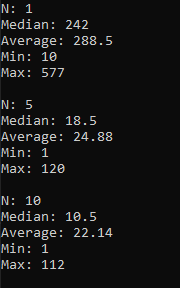
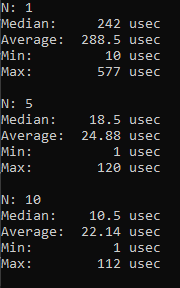
make prettier output

diff --git a/Task7.cpp b/Task7.cpp
@@ -3,6 +3,7 @@
 #include <iostream>
 #include <numeric>
 #include <fstream>
+#include <iomanip>
 #include <vector>
 #include <assert.h>
 #include <set>
@@ -95,11 +96,12 @@ void PrintLatencyStats(vector<int> latencies, int MAX_WORKLOAD) {
 	float average = accumulate(all(latencies), 0.0) / size;
 	float median = (size & 1) ? latencies[size / 2] : ((float)latencies[size / 2 - 1] + latencies[size / 2]) / 2.0;
 
+	int sw = 5;
 	cout << "N: " << MAX_WORKLOAD << "\n"
-		<< "Median: " << median << "\n"
-		<< "Average: " << average << "\n"
-		<< "Min: " << latencies.front() << "\n"
-		<< "Max: " << latencies.back() << "\n\n";
+		<< "Median:   " << setw(sw) << median << " usec\n"
+		<< "Average:  " << setw(sw) << average << " usec\n"
+		<< "Min:      " << setw(sw) << latencies.front() << " usec\n"
+		<< "Max:      " << setw(sw) << latencies.back() << " usec\n\n";
 }
 
 void PrintProcessorState(Processor& processor) {
